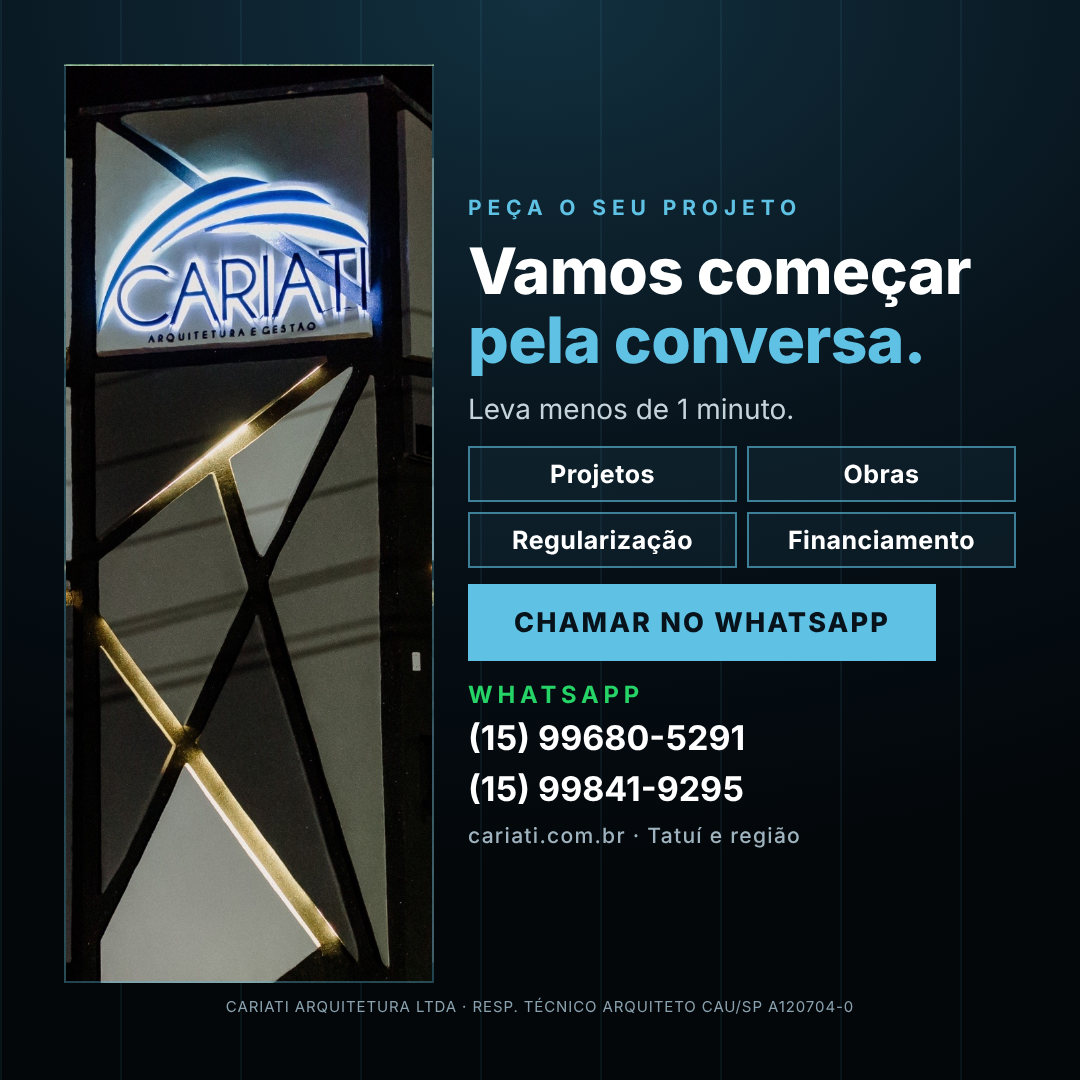
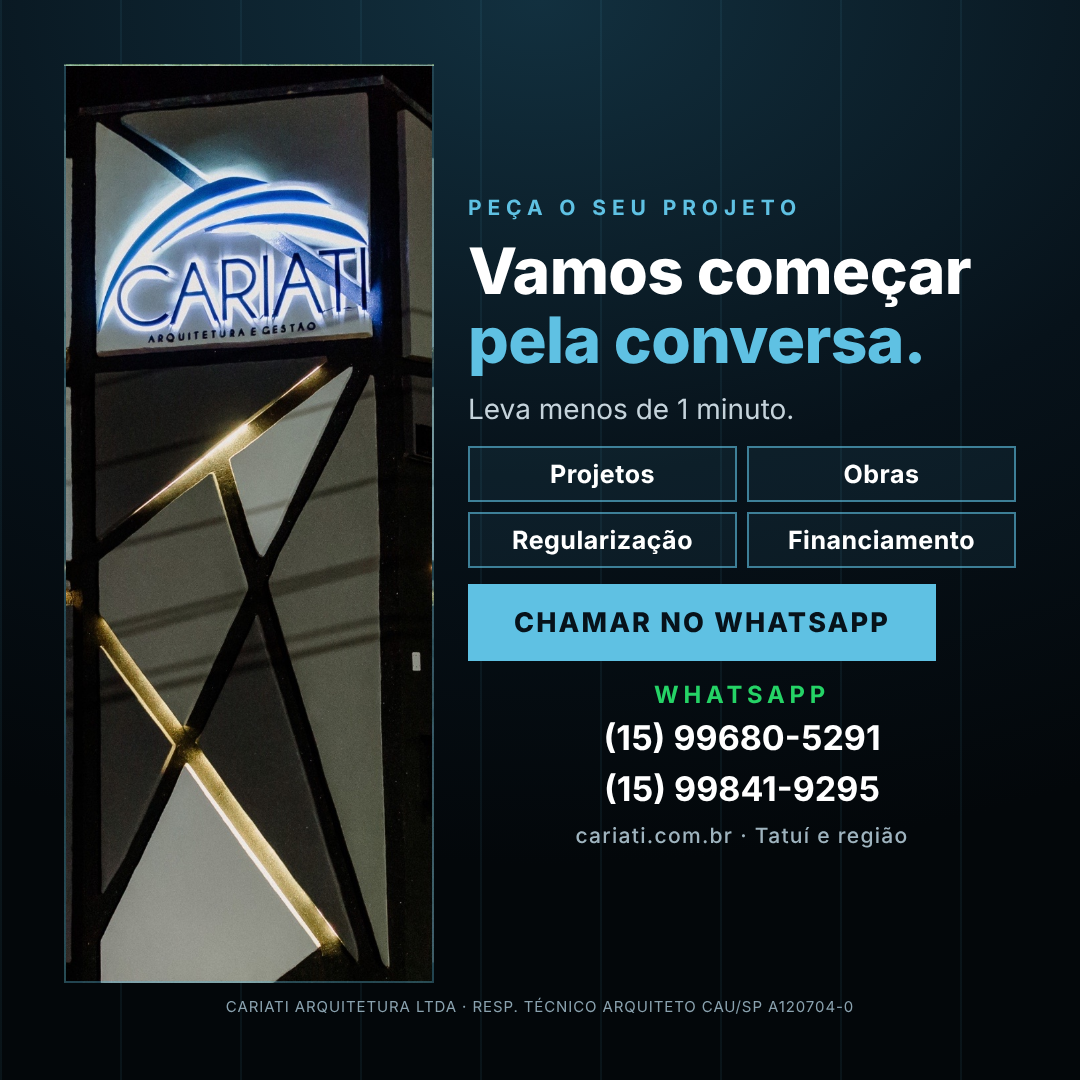
Flyer 04 square: center WhatsApp block; add Flyer 05 (Financiamento Caixa)
Claude-Session: https://claude.ai/code/session_012W4cPJrLBDcgKi33Cw4yCm

Changed region(s): [[0.4278, 0.6111, 0.825, 0.7944]]

diff --git a/flyers_cariati/build.py b/flyers_cariati/build.py
@@ -98,8 +98,15 @@ def f3(vert):
 def f4(vert):
     if vert:
         return photo("fachada.jpg",700,"center 0%")+sp(40)+'<div class="eyebrow z">Peça o seu projeto</div>'+sp(18)+'<h1 class=z>Vamos começar<br><em>pela conversa.</em></h1>'+sp(20)+'<p class="sub z">Leva menos de 1 minuto. Fale com a nossa equipe pelo WhatsApp.</p>'+sp(34)+'<div class="eyebrow z" style="font-size:24px">Como podemos ajudar</div>'+sp(18)+chips()+flex()+sp(30)+'<div class="cta z">Chamar no WhatsApp</div>'+sp(34)+PH+sp(26)+FOOT
-    return f"<div class='z' style='display:flex;gap:34px;flex:1'><div class='photo' style=\"width:370px;background-image:url('assets/fachada.jpg');background-position:center top\"></div><div style='flex:1;display:flex;flex-direction:column;justify-content:center;gap:16px'><div class='eyebrow' style='text-align:left'>Peça o seu projeto</div><h1 style='text-align:left'>Vamos começar <em>pela conversa.</em></h1><p class='sub' style='text-align:left'>Leva menos de 1 minuto.</p>{chips('l')}<div class='cta' style='align-self:flex-start'>Chamar no WhatsApp</div>{PH.replace('contact z','contact z\" style=\"text-align:left').replace(' &nbsp;·&nbsp; ','<br>')}</div></div>"+sp(14)+FOOT
-FL=[("01_tudo_em_um_so_lugar",f1),("02_400_obras",f2),("03_metodo_ppg",f3),("04_vamos_conversar",f4)]
+    return f"<div class='z' style='display:flex;gap:34px;flex:1'><div class='photo' style=\"width:370px;background-image:url('assets/fachada.jpg');background-position:center top\"></div><div style='flex:1;display:flex;flex-direction:column;justify-content:center;gap:16px'><div class='eyebrow' style='text-align:left'>Peça o seu projeto</div><h1 style='text-align:left'>Vamos começar <em>pela conversa.</em></h1><p class='sub' style='text-align:left'>Leva menos de 1 minuto.</p>{chips('l')}<div class='cta' style='align-self:flex-start'>Chamar no WhatsApp</div>{PH.replace('contact z','contact z\" style=\"text-align:center').replace(' &nbsp;·&nbsp; ','<br>')}</div></div>"+sp(14)+FOOT
+# 5 financiamento Caixa
+def f5(vert):
+    li=lambda t:f"<li>{t}</li>"
+    items=li("Projeto e documentação organizados")+li("Obra acompanhada etapa por etapa")+li("Uma única equipe, do início à entrega")
+    if vert:
+        return L+sp(40)+'<div class="eyebrow z">Financiamento Caixa</div>'+sp(20)+'<h1 class=z>Construa a sua casa<br><em>com financiamento</em></h1>'+sp(44)+photo("casa_piscina.jpg",440,"center")+sp(40)+f'<ul class="list z" style="margin:0 auto;width:840px;--ls:38px">{items}</ul>'+flex()+'<div class="cta z">Quero simular</div>'+sp(40)+PH+sp(30)+FOOT
+    return L+sp(26)+'<div class="eyebrow z">Financiamento Caixa</div>'+sp(14)+'<h1 class=z>Construa a sua casa<br><em>com financiamento</em></h1>'+sp(22)+f"<div class='z' style='display:flex;gap:30px;align-items:center'>"+f"<div class='photo' style=\"width:430px;height:300px;flex:none;background-image:url('assets/casa_piscina.jpg')\"></div>"+f'<ul class="list" style="flex:1;--ls:31px">{items}</ul></div>'+flex()+sp(20)+'<div class="cta z">Quero simular</div>'+sp(18)+PH+sp(14)+FOOT
+FL=[("01_tudo_em_um_so_lugar",f1),("02_400_obras",f2),("03_metodo_ppg",f3),("04_vamos_conversar",f4),("05_financiamento_caixa",f5)]
 import json
 jobs=[]
 (root/"html").mkdir(exist_ok=True)
